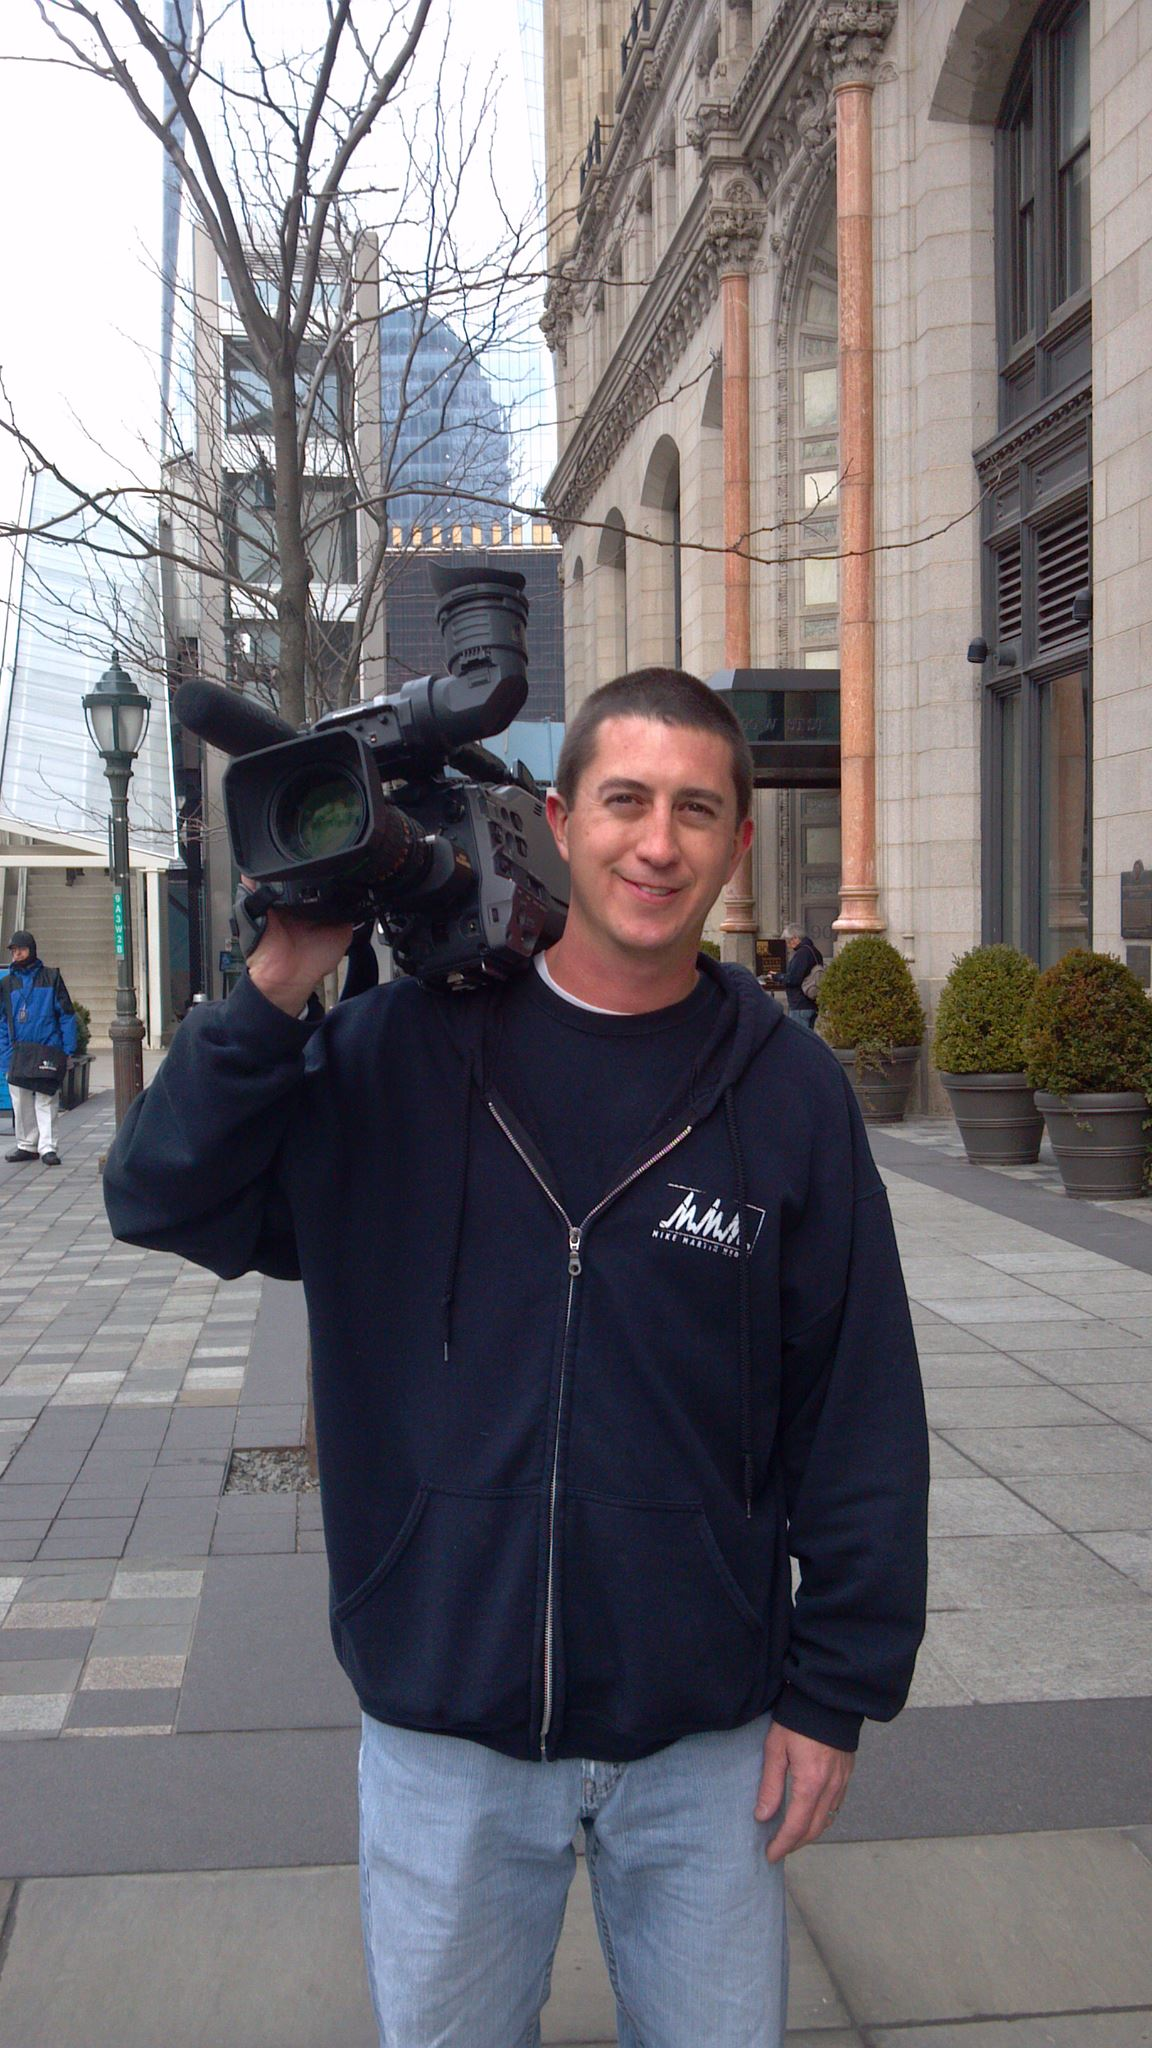
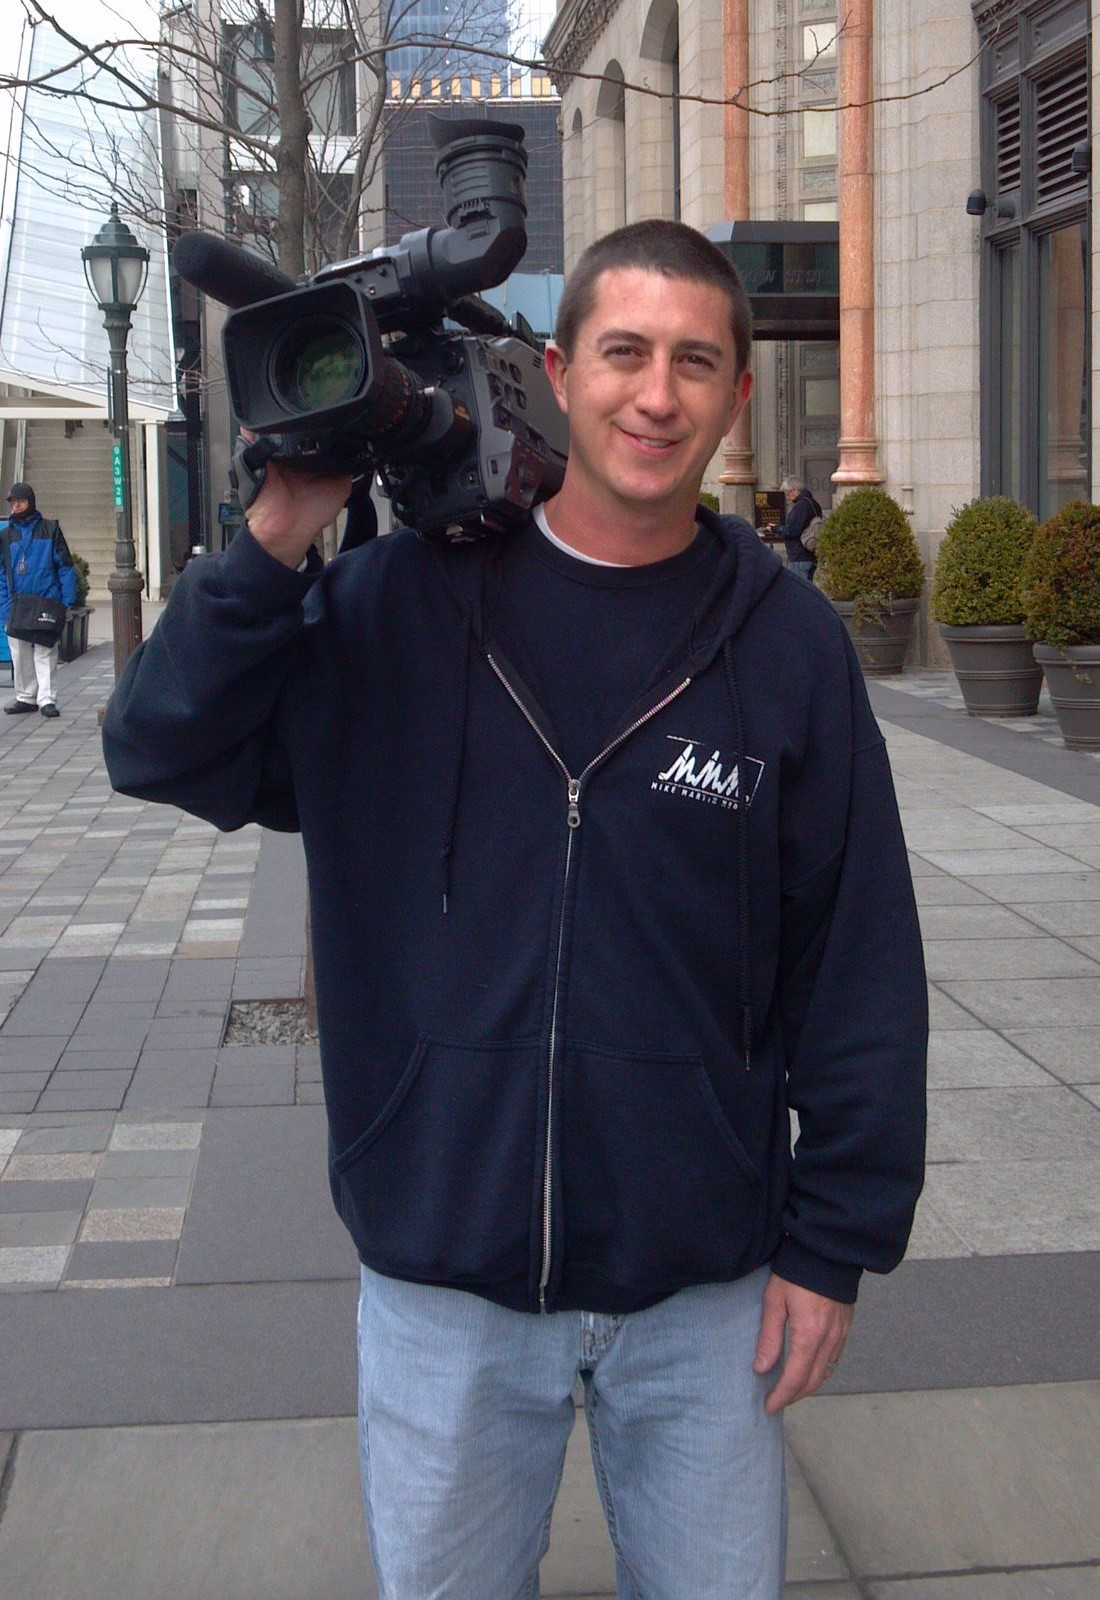
rework home and about pages

diff --git a/app/about_mmm/page.js b/app/about_mmm/page.js
@@ -11,6 +11,7 @@ import BackToHomeLink from "../ui/backToHome";
 import MMMLineLogoBlack from "../ui/mmmLineLogoBlack";
 import TextSegment from "../ui/textSegment";
 import InstagramWidget from "../ui/instagramWidget";
+import BannerImage from "../ui/bannerImg";
 
 export const metadata = {
   title: "About MMM",
@@ -19,12 +20,74 @@ export const metadata = {
 export default function Page() {
   return (
     <main>
-      <div className="mt-4 ">
+      <div className="mt-2 mb-1 ">
         <BackToHomeLink />
       </div>
-      <h2 className="text-center font-bold text-4xl mt-6">About MMM</h2>
-      <div className="grid grid-cols-1 md:grid-cols-2 lg:p-16">
-        <div className="flex flex-col justify-center items-center h-full p-6">
+      <div className="bg-black text-white flex justify-center items-center w-full h-20 ">
+        <h2 className="text-4xl font-bold mr-2">About </h2>
+        <div className="flex justify-center items-center w-24 h-8 mb-1">
+          <Image
+            src="/branding/mmm_logo_white.png"
+            width={294}
+            height={95}
+            alt="company logo"
+          />
+        </div>
+      </div>
+      <div
+        className="flex justify-center items-center max-w-4xl mx-auto pt-6 pb-2"
+        id="blog-section-image-container"
+        style={{ maxWidth: "275px" }} // Set the max-width to match the image's intrinsic width or any other desired value
+      >
+        <BannerImage
+          id="blog-section-image"
+          src="/images/aboutPage/mike-standing-camera.jpg"
+          alt="Mike in van with camera"
+          width={1100}
+          height={1600}
+        />
+      </div>
+      <div>
+        <TextSegment
+          text="For over 15 years, MMM has combined the latest technology with the
+              best in-house talent to create impactful videos for organizations
+              all over the United States and the world. We partner with
+              corporations, medical and educational institutions, and nonprofit
+              organizations to bring their vision to life. Our expertise
+              provides a seamless production experience that you probably didn’t
+              know could exist. We produce the quality work and client
+              experience that you need along with a valuable partnership that
+              will bring growth and success."
+        />
+      </div>
+      <div
+        className="flex justify-center items-center max-w-4xl mx-auto"
+        id="blog-section-image-container"
+        style={{ maxWidth: "1024px" }} // Set the max-width to match the image's intrinsic width or any other desired value
+      >
+        <BannerImage
+          id="blog-section-image"
+          src="/images/aboutPage/mike-van.jpg"
+          alt="Mike in van with camera"
+          width={2048}
+          height={1363}
+        />
+      </div>
+
+      {/* <div className="flex justify-center items-center mt-10 -mb-6 p-2">
+        <h2 className="text-4xl font-bold mr-2">About </h2>
+        <div className="flex justify-center items-center w-24 h-8 mb-1">
+          <Image
+            src="/branding/mmm_black.png"
+            width={294}
+            height={95}
+            alt="company logo"
+          />
+        </div>
+      </div> */}
+
+      {/* <div className="grid grid-cols-1 md:grid-cols-2 lg:p-16"> */}
+      {/* <div className="flex flex-col justify-center items-center h-full p-6">
           <div className="lg:h-3/4">
             <p className="text-left lg:text-2xl w-full shadow-2xl p-6">
               For over 15 years, MMM has combined the latest technology with the
@@ -38,9 +101,9 @@ export default function Page() {
               will bring growth and success.
             </p>
           </div>
-        </div>
-        <div className="flex flex-col justify-center items-center p-6">
-          <div className="shadow-2xl mb-6 w-full flex justify-center lg:w-3/4">
+        </div> */}
+      {/* <div className="flex flex-col justify-center items-center p-6"> */}
+      {/* <div className="shadow-2xl mb-6 w-full flex justify-center lg:w-3/4">
             <Image
               src="/images/aboutPage/mike-van.jpg"
               width={2048}
@@ -48,20 +111,20 @@ export default function Page() {
               alt="Mike in van with camera"
               className="shadow-xl"
             />
-          </div>
-          <div className="shadow-2xl w-full flex justify-center lg:w-1/2 ">
+          </div> */}
+      {/* <div className="shadow-2xl w-full flex justify-center lg:w-1/2 ">
             <Image
               src="/images/aboutPage/mike-standing-camera.jpg"
-              width={1152}
-              height={2048}
+              width={1100}
+              height={1600}
               alt="Mike standing with camera"
               className="shadow-xl"
             />
-          </div>
-        </div>
-      </div>
-      <section>
-        <div className="grid grid-cols-1 lg:grid-cols-3 w-full">
+          </div> */}
+      {/* </div> */}
+      {/* </div> */}
+      <section className="md:mt-12">
+        <div className="grid grid-cols-1 lg:grid-cols-3 w-full mt-6">
           {weTextBlockData.map((block) => (
             <WeTextBlock
               key={block.headline}
@@ -72,32 +135,30 @@ export default function Page() {
         </div>
       </section>
 
-      <div className="flex justify-center items-center mb-4 p-6">
-        <ContactUsButton />
-      </div>
-
-      <section className="my-12">
+      {/* <section className="my-12">
         <InstagramWidget />
-      </section>
+      </section> */}
 
-      <section>
-        <div>
+      <section className="mt-8 md:mt-12">
+       
           <div className="flex justify-center items-center ">
-            <div className="w-24 h-8 mx-2 mb-1">
+            <div className="w-12 h-8 mx-2 mb-4">
               <Image
-                src="/branding/mmm_black.png"
-                width={294}
-                height={95}
+                src="/branding/singleMBlack.png"
+                width={3492}
+                height={2716}
                 alt="company logo"
               />
             </div>
             <h2 className="text-4xl font-bold -ml-2">eet The Team</h2>
           </div>
+          <div className="flex justify-center items-center mb-4">
           <TextSegment text="Our team brings decades of combined experience from the broadcast and production industries.  We are a tight-knit team, and we keep our work in-house. We work hard, play hard, and spend a lot of time laughing." />
-          <div className="-mt-8">
+          </div>
+          <div className="-mt-14">
             <TeamGallery />
           </div>
-        </div>
+        
       </section>
       <section>
         <InstagramWidget />

diff --git a/app/page.js b/app/page.js
@@ -88,7 +88,7 @@ export default function Home() {
           <div
             className="flex justify-center items-center max-w-4xl mx-auto"
             id="blog-section-image-container"
-            style={{ maxWidth: "1024px" }} // Set the max-width to match the image's intrinsic width or any other desired value
+            style={{ maxWidth: "1024px" }} // Set the max-width to desired value
           >
             <BannerImage
               id="blog-section-image"
@@ -230,7 +230,9 @@ export default function Home() {
             height={1363}
           />
         </div> */}
+        <div>
         <TextSegment text=" Check out our latest adventures in the MMM Blog as we film and travel across town and around the country. Try to keep up, we move fast!" />
+        </div>
         <div className="flex justify-center items-center  mb-2 mt-2">
           <MmmSiteButtonLogoFirst
             href="blog"

diff --git a/app/ui/textSegment.js b/app/ui/textSegment.js
@@ -1,7 +1,18 @@
 export default function TextSegment({ text }) {
   return (
-    <div className="flex justify-center items-center">
-      <p className="p-2 font-semibold text-center text-pretty text-balance text-wrap w-10/12 md:w-1/2">{text}</p>
+    <div className="flex justify-center items-center ">
+      <p className="p-2  text-center text-pretty text-balance text-wrap w-10/12 md:w-1/2 ">{text}</p>
     </div>
+    // <div className="flex flex-col justify-center items-center h-full p-6 lg:-mb-0">
+    //   <div className="flex flex-col justify-between h-full shadow-2xl">
+    //     <div>
+         
+    //       <p className="text-left w-full p-4 font-semibold text-pretty text-balance text-wrap">
+    //         {text}
+    //       </p>
+    //     </div>
+       
+    //   </div>
+    // </div>
   );
 }

diff --git a/app/ui/weTextBlock.js b/app/ui/weTextBlock.js
@@ -2,7 +2,7 @@ import MMMLineLogoBlack from "./mmmLineLogoBlack";
 
 export default function WeTextBlock({ headline, text }) {
   return (
-    <div className="flex flex-col justify-center items-center h-full p-12 lg:-mb-0">
+    <div className="flex flex-col justify-center items-center h-full p-6 lg:-mb-0">
       <div className="flex flex-col justify-between h-full shadow-2xl">
         <div>
           <h4 className="font-bold mr-auto p-4 -mb-4">{headline}</h4>
